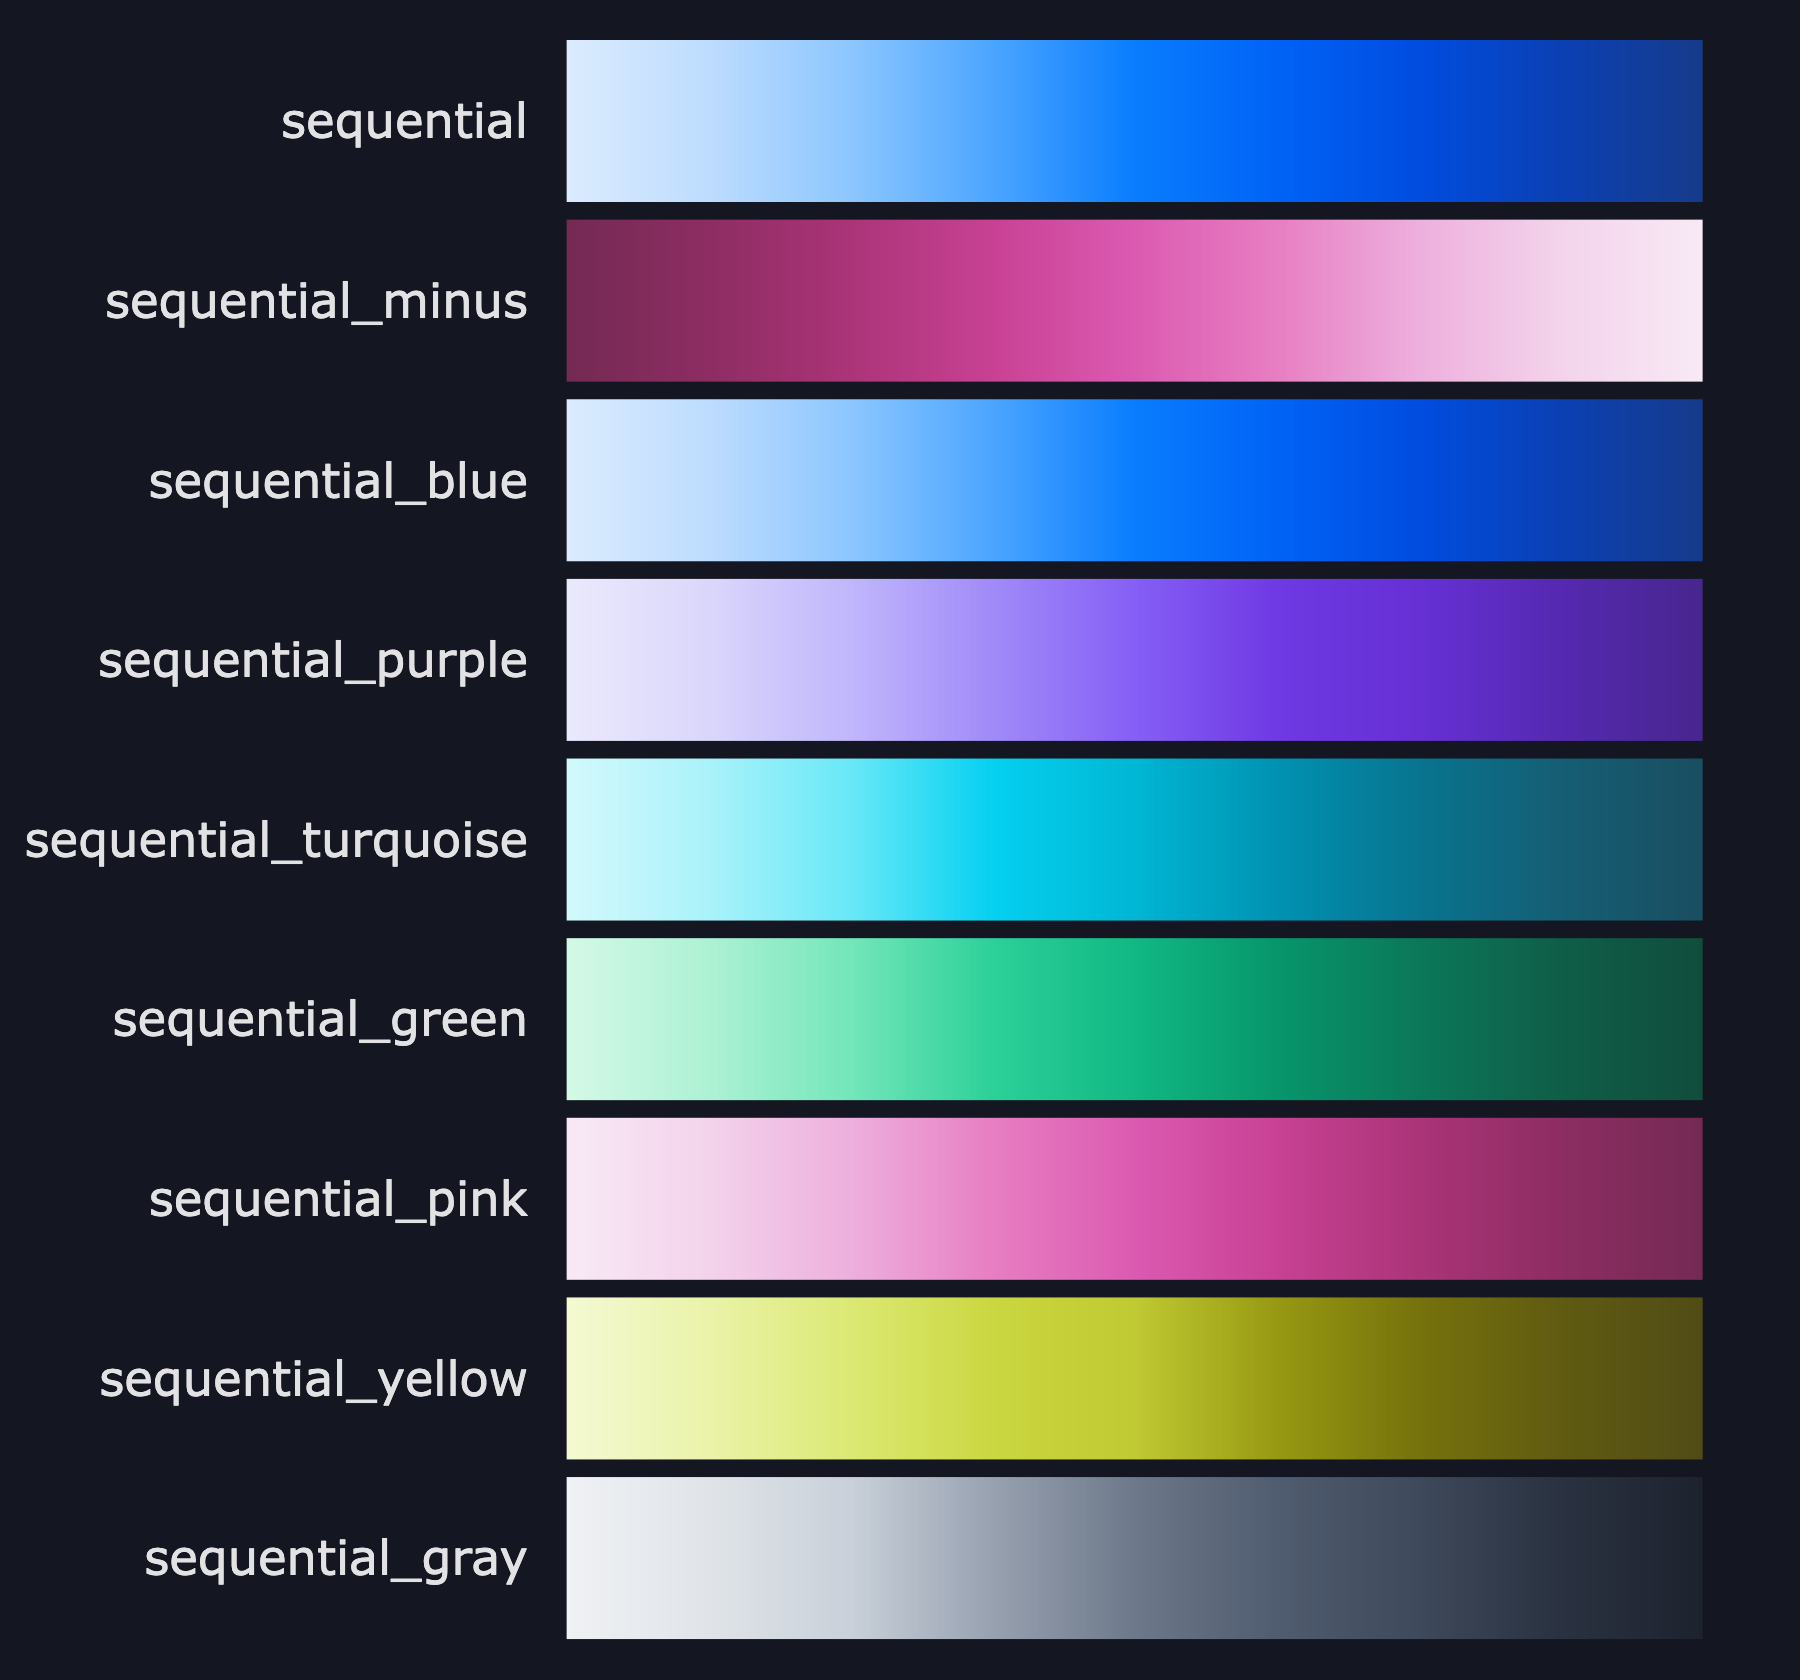
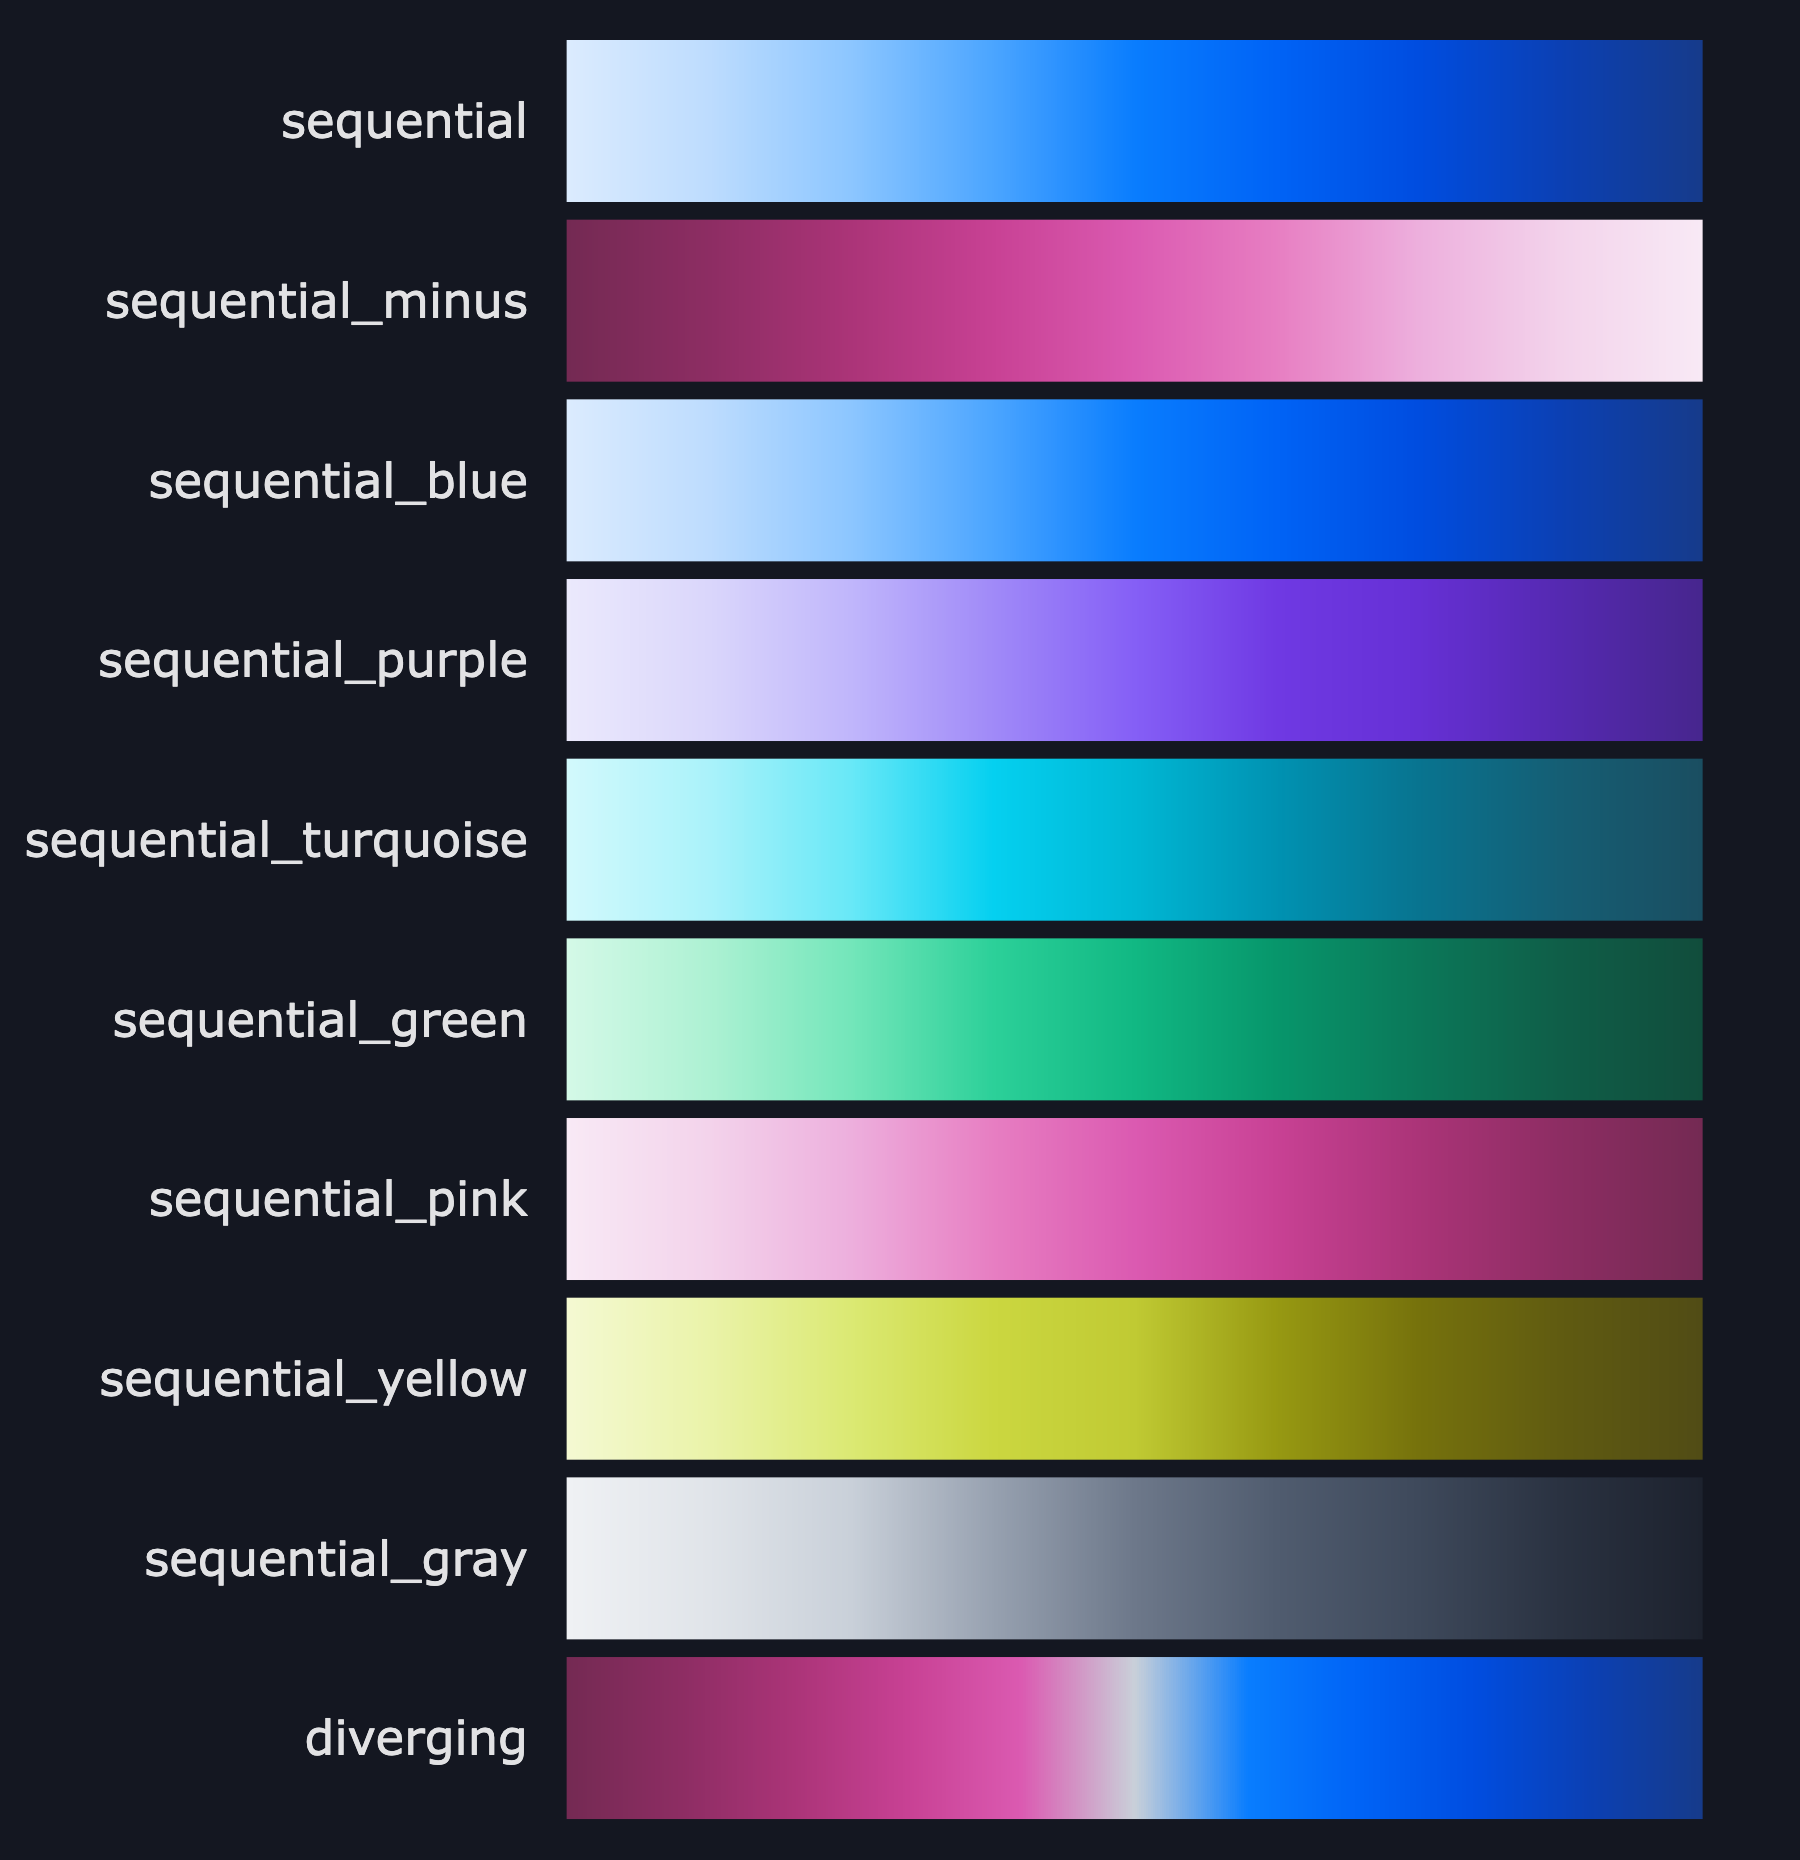
Add preliminary diverging palette

diff --git a/vizro-core/examples/themes/app.py b/vizro-core/examples/themes/app.py
@@ -10,6 +10,7 @@ from vizro.models._components.form._text_area import TextArea
 from vizro.models._components.form._user_input import UserInput
 from vizro.models.types import capture
 from vizro.tables import dash_ag_grid
+from vizro.themes import palettes
 
 iris = px.data.iris()
 tips = px.data.tips()
@@ -76,27 +77,31 @@ continuous_color_scales = vm.Page(
     layout=vm.Grid(grid=[[0, 1, 2]]),
     components=[
         vm.Graph(
-            title="Global Life Expectancy Distribution",
-            figure=px.choropleth(gapminder_2007, locations="iso_alpha", color="lifeExp"),
-            footer="Source: Plotly Gapminder data set, 2024",
-        ),
-        vm.Graph(
-            title="Global Life Expectancy Distribution",
+            title="Sequential",
             figure=px.choropleth(
-                gapminder_2007,
-                locations="iso_alpha",
-                color="lifeExp",
-                color_continuous_midpoint=avg_lifeExp,
+                gapminder_2007, locations="iso_alpha", color="lifeExp", color_continuous_scale=palettes.sequential
             ),
             footer="Source: Plotly Gapminder data set, 2024",
         ),
         vm.Graph(
-            title="Global Life Expectancy Distribution",
+            title="Sequential Minus",
             figure=px.choropleth(
                 gapminder_2007,
                 locations="iso_alpha",
                 color="lifeExp",
                 color_continuous_midpoint=avg_lifeExp,
+                color_continuous_scale=palettes.sequential_minus,
+            ),
+            footer="Source: Plotly Gapminder data set, 2024",
+        ),
+        vm.Graph(
+            title="Diverging",
+            figure=px.choropleth(
+                gapminder_2007,
+                locations="iso_alpha",
+                color="lifeExp",
+                color_continuous_midpoint=avg_lifeExp,
+                color_continuous_scale=palettes.diverging,
             ),
             footer="Source: Plotly Gapminder data set, 2024",
         ),

diff --git a/vizro-core/src/vizro/themes/_palettes.py b/vizro-core/src/vizro/themes/_palettes.py
@@ -99,6 +99,20 @@ sequential_gray = [
     colors.gray_900,
 ]
 
+diverging_pink_blue = [
+    colors.pink_900,
+    colors.pink_800,
+    colors.pink_700,
+    colors.pink_600,
+    colors.pink_500,
+    colors.gray_300,
+    colors.blue_500,
+    colors.blue_600,
+    colors.blue_700,
+    colors.blue_800,
+    colors.blue_900,
+]
+
 # These are necessarily the same for dark and light themes.
 # For plotly express plots, some colors are taken from the template's palettes and stored in
 # fig.data rather than fig.layout. This means they cannot be changed consistently by post-fig
@@ -114,4 +128,5 @@ palettes = SimpleNamespace(
     sequential_pink=sequential_pink,
     sequential_yellow=sequential_yellow,
     sequential_gray=sequential_gray,
+    diverging=diverging_pink_blue,
 )

diff --git a/vizro-core/tools/generate_templates.py b/vizro-core/tools/generate_templates.py
@@ -46,7 +46,7 @@ def create_template_common() -> go.layout.Template:
             # automatically if `coloraxis_autocolorscale=True`. Otherwise, they have no
             # effect, and the default for continuous color scales will be the color
             # sequence applied to ["colorscale"]["sequential"].
-            # colorscale_diverging=palettes.diverging_red_cyan,
+            colorscale_diverging=palettes.diverging,
             colorscale_sequential=palettes.sequential,
             colorscale_sequentialminus=palettes.sequential_minus,
             colorway=palettes.qualitative,
